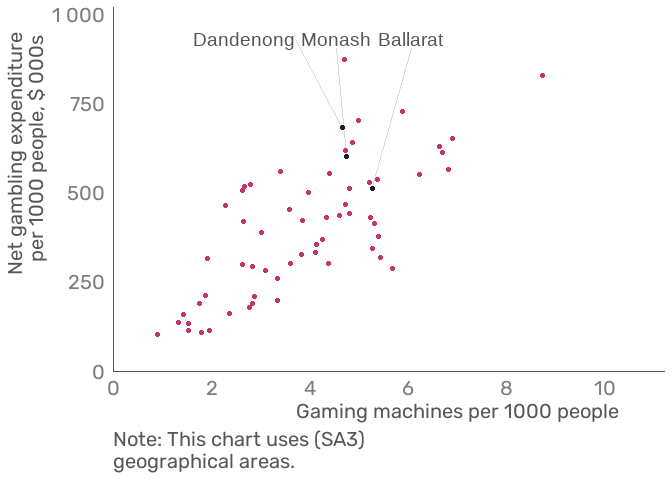
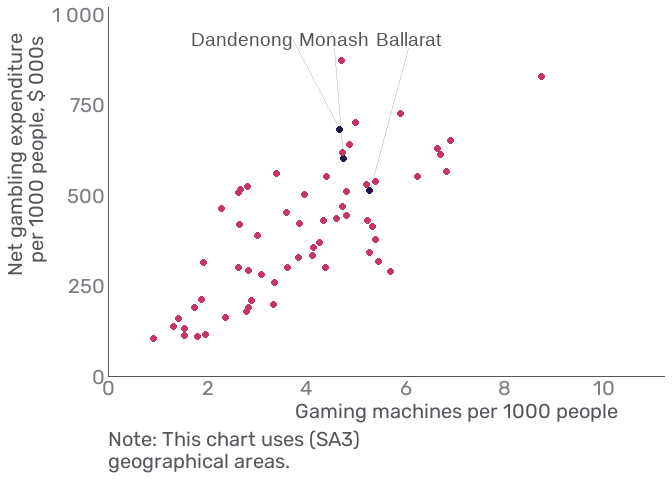
Update with August 2025 LGA data.

diff --git a/README.md b/README.md
@@ -119,8 +119,8 @@ Cleaning consists of:
 
 ## Last updated
 
-Last update on 3 Sepetember July 2025. As of version 0.1.2, annual data
-is up to the financial year 2024-25 and monthly data is up to July 2025.
+Last update on 1 October 2025. As of version 0.1.3, annual data is up to
+the financial year 2024-25 and monthly data is up to August 2025.
 
 ## Possible analysis
 
@@ -183,17 +183,4 @@ other geographies like Statistical Areas.
 
 <img src="man/figures/README-make_melb_sa3_map-1.png" width="80%" />
 
-    #> New names:
-    #> Joining with `by = join_by(fy_date, sa3_code, sa3_name)`
-    #> `summarise()` has grouped output by 'fy_date', 'sa3_name', 'measure_type'. You
-    #> can override using the `.groups` argument.
-    #> • `` -> `...1`
-    #> • `` -> `...2`
-    #> • `` -> `...3`
-    #> • `` -> `...4`
-    #> • `` -> `...5`
-    #> • `` -> `...6`
-    #> • `` -> `...7`
-    #> • `` -> `...8`
-
-<img src="man/figures/README-get_pop-1.png" width="80%" />
+<img src="man/figures/README-use_pop-1.png" width="80%" />
